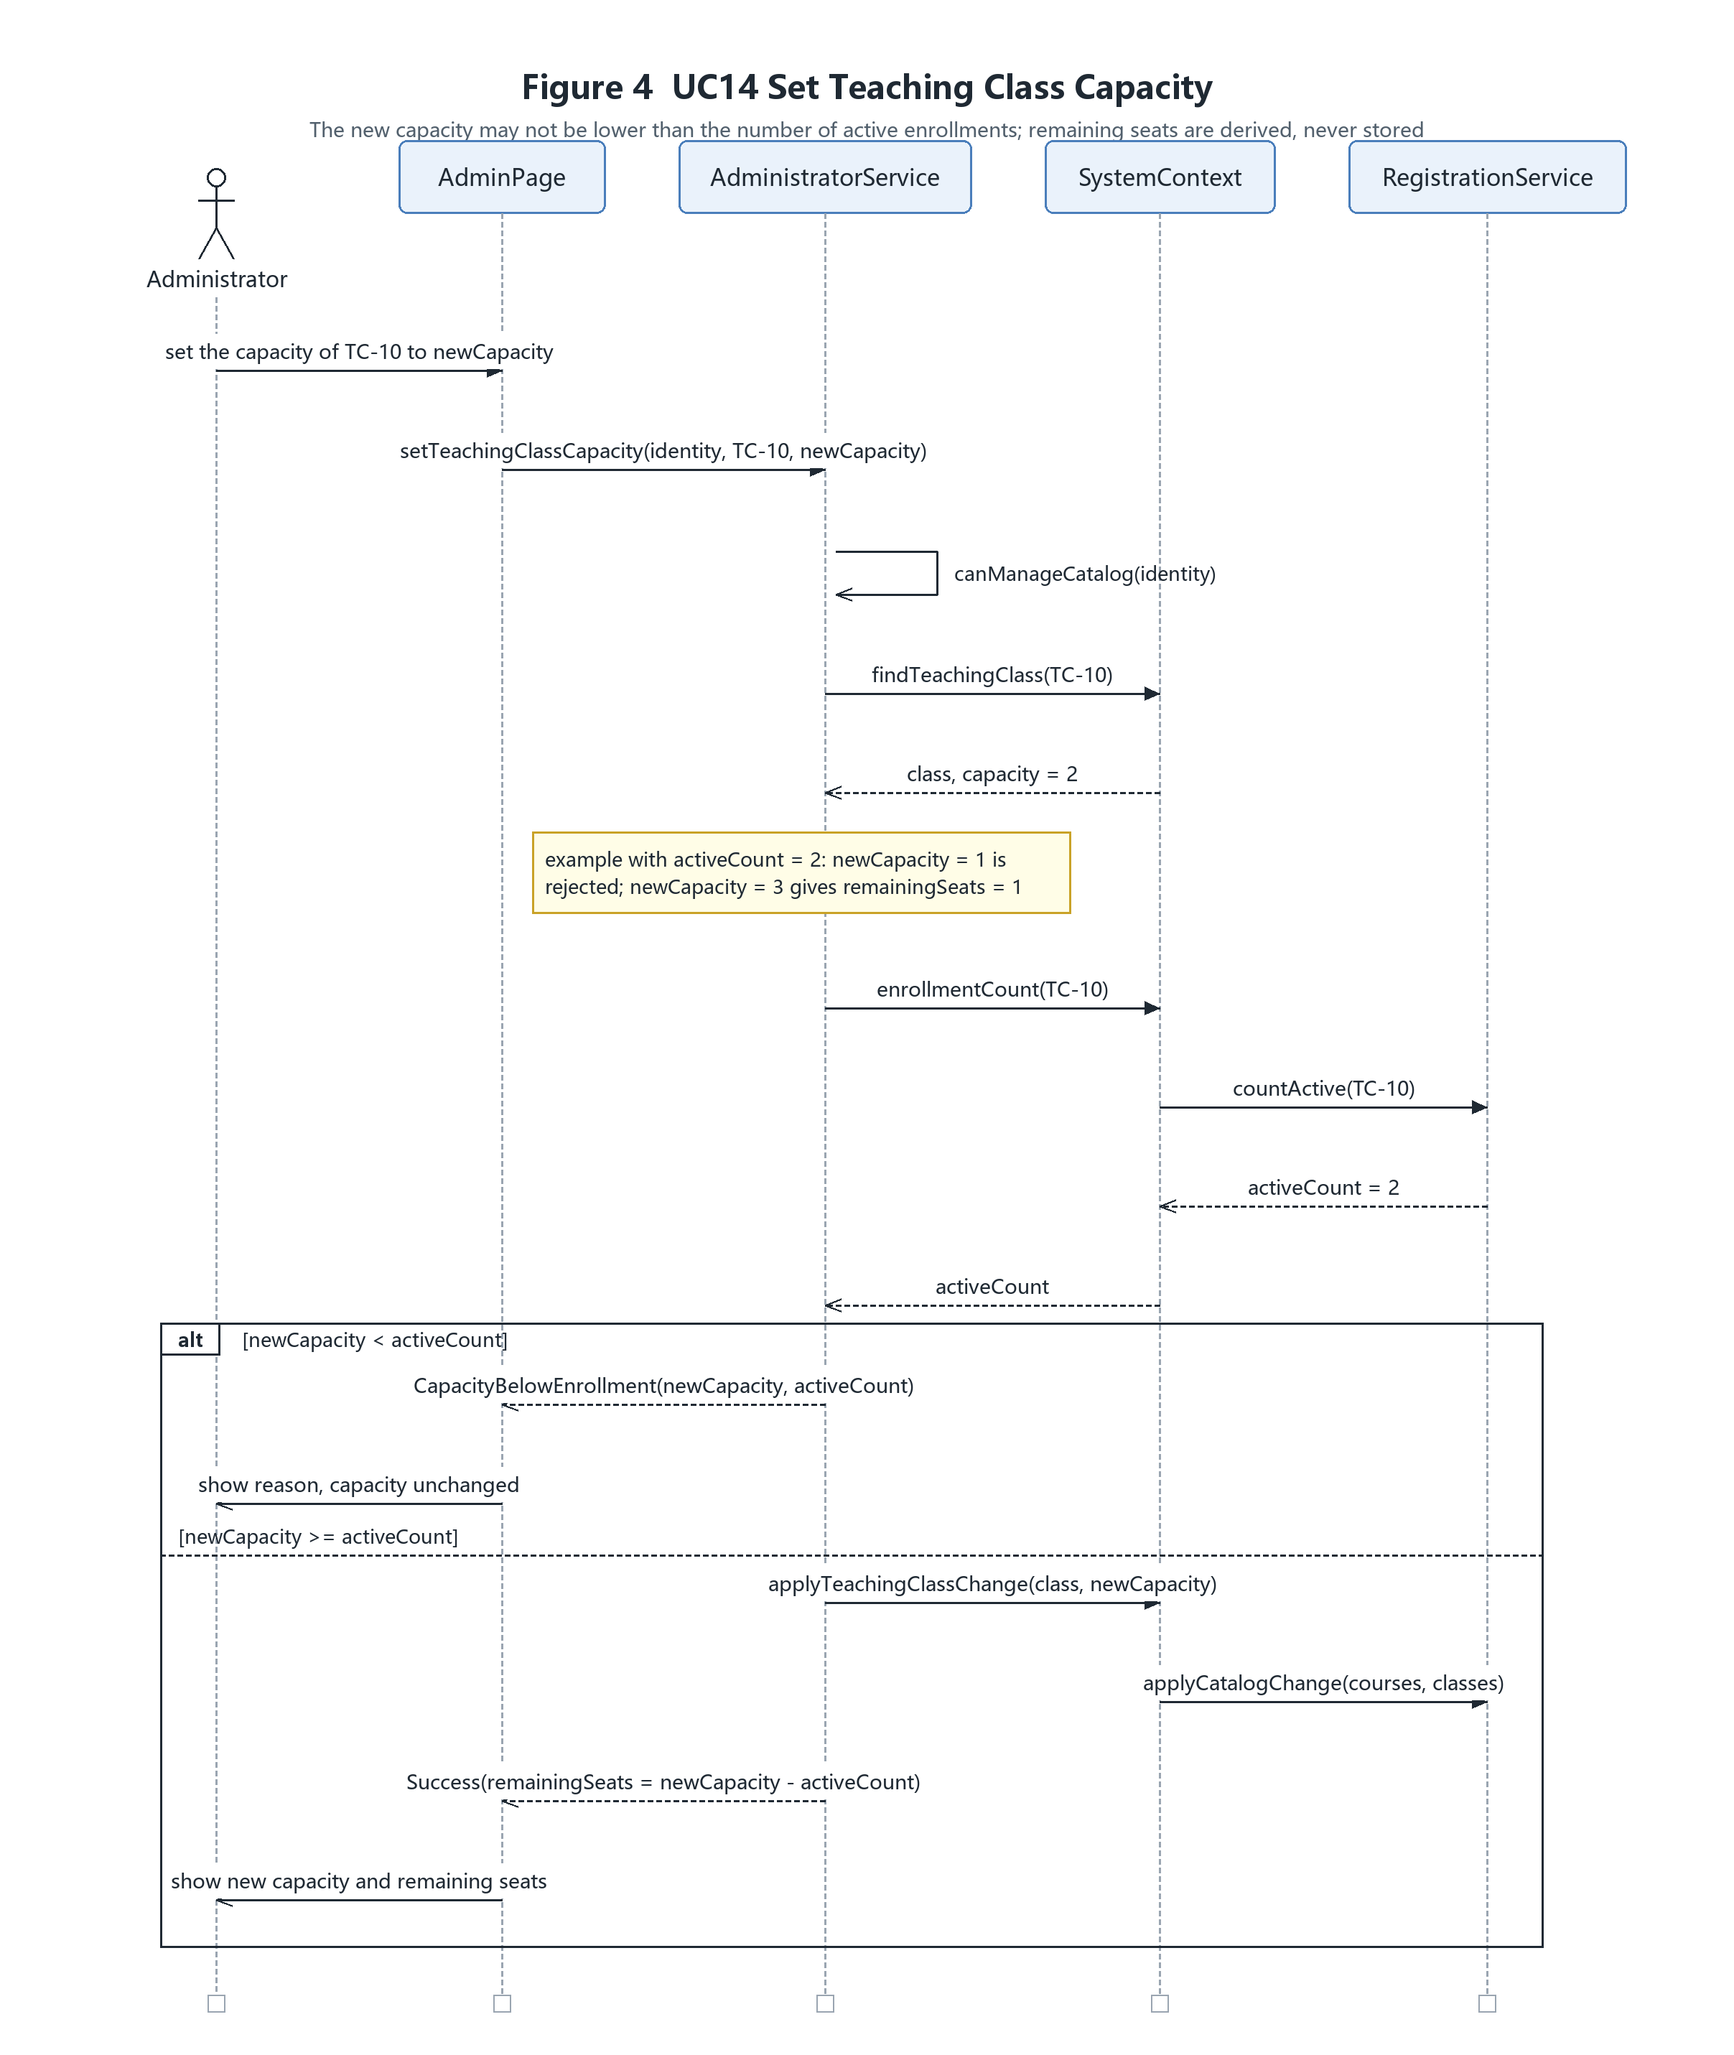
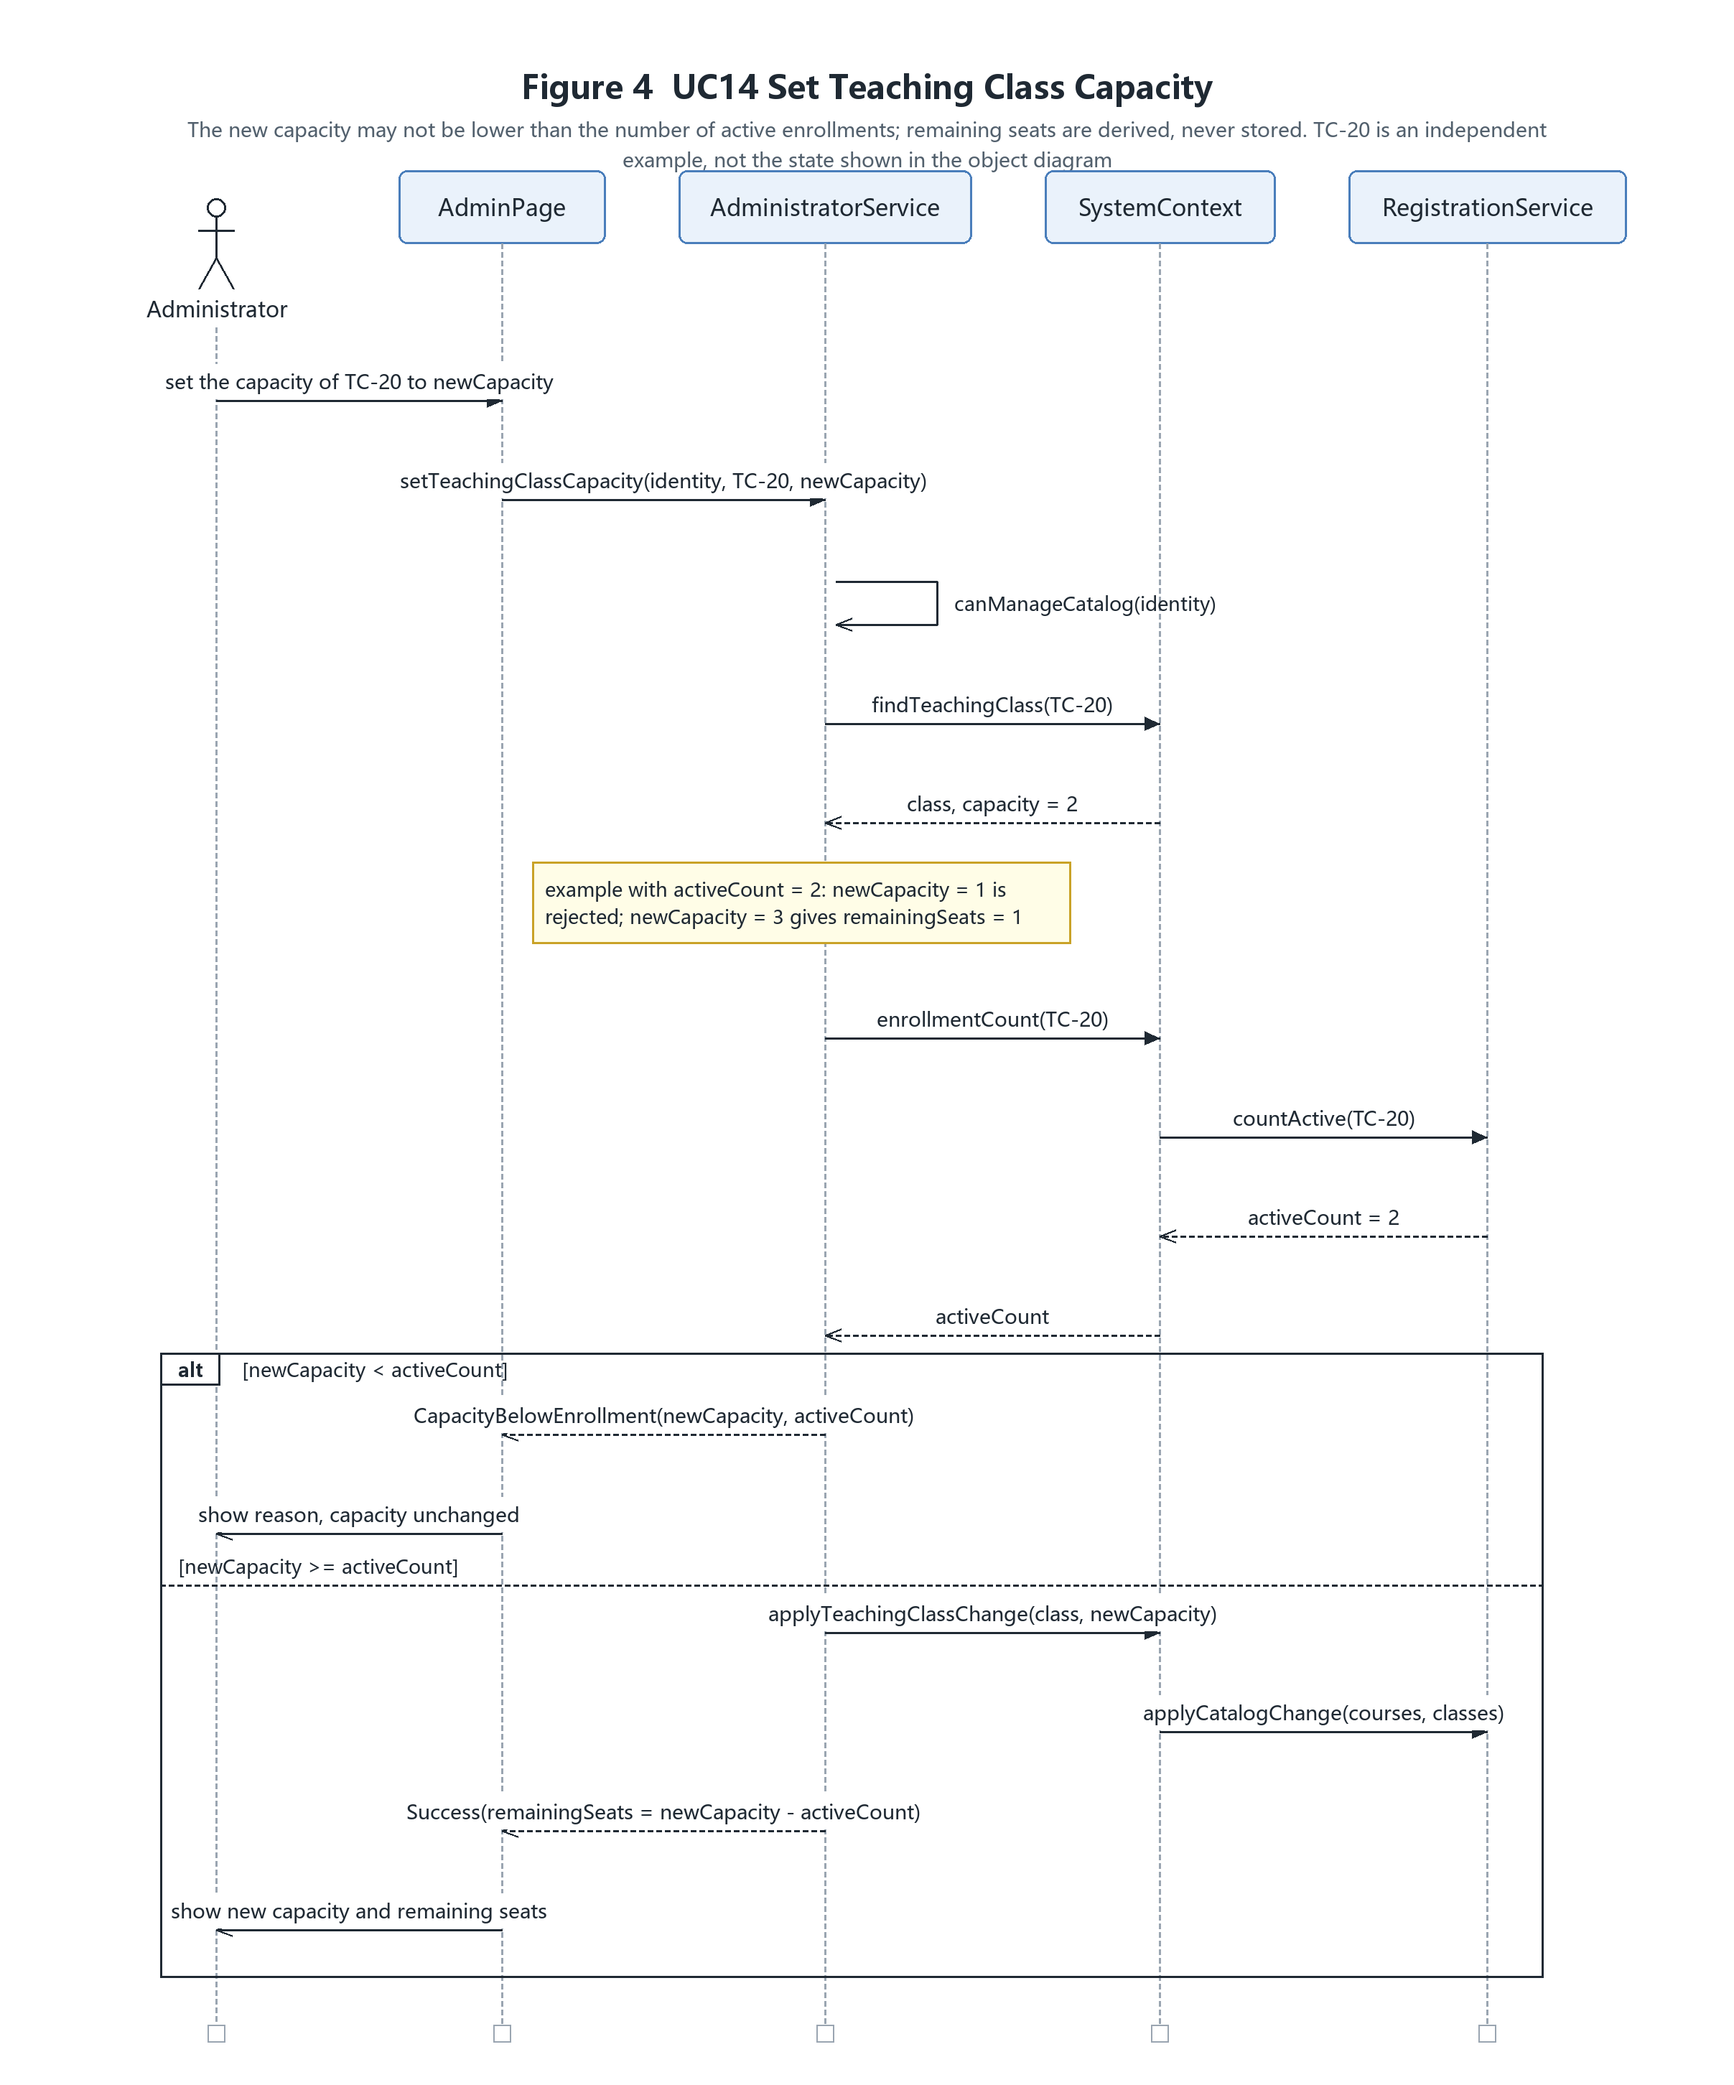
docs(task3): clarify the UC16 lookups and mark UC14 as an independent example
UC16: the two identifier lookups now return found or not found instead of a fixed not found, so the alt branch (duplicate identifier / valid record) is consistent with what the figure shows; the in-figure note and the explanation say that student creation is the example, teacher creation is similar, and updates/removals have their own checks. UC14: the teaching class is renamed to TC-20 and labelled an independent example, so it is no longer read as the same moment as the TC-10 object diagram. umlkit now wraps long subtitles so they cannot be clipped by the canvas. FIGURES.md records the terminology recommendation: keep active/dropped because it matches EnrollmentStatus.

diff --git a/docs/task3/make_diagrams.py b/docs/task3/make_diagrams.py
@@ -231,7 +231,8 @@ def figure4_uc14():
     diagram = SequenceDiagram(
         "Figure 4  UC14 Set Teaching Class Capacity",
         "The new capacity may not be lower than the number of active "
-        "enrollments; remaining seats are derived, never stored")
+        "enrollments; remaining seats are derived, never stored. "
+        "TC-20 is an independent example, not the state shown in the object diagram")
 
     admin = diagram.participant("Administrator", kind="actor")
     page = diagram.participant("AdminPage")
@@ -241,15 +242,15 @@ def figure4_uc14():
 
     m = []
     m.append(diagram.message(admin, page,
-                             "set the capacity of TC-10 to newCapacity"))
+                             "set the capacity of TC-20 to newCapacity"))
     m.append(diagram.message(page, service,
-                             "setTeachingClassCapacity(identity, TC-10, "
+                             "setTeachingClassCapacity(identity, TC-20, "
                              "newCapacity)"))
     m.append(diagram.self_message(service, "canManageCatalog(identity)"))
-    m.append(diagram.message(service, context, "findTeachingClass(TC-10)"))
+    m.append(diagram.message(service, context, "findTeachingClass(TC-20)"))
     m.append(diagram.ret(context, service, "class, capacity = 2"))
-    m.append(diagram.message(service, context, "enrollmentCount(TC-10)"))
-    m.append(diagram.message(context, registration, "countActive(TC-10)"))
+    m.append(diagram.message(service, context, "enrollmentCount(TC-20)"))
+    m.append(diagram.message(context, registration, "countActive(TC-20)"))
     m.append(diagram.ret(registration, context, "activeCount = 2"))
     m.append(diagram.ret(context, service, "activeCount"))
 
@@ -358,10 +359,10 @@ def figure6_uc16():
                              "createStudent(identity, record)"))
     m.append(diagram.self_message(service, "canManagePeople(identity)"))
     m.append(diagram.message(service, context, "findStudent(studentId)"))
-    m.append(diagram.ret(context, service, "not found"))
+    m.append(diagram.ret(context, service, "found or not found"))
     m.append(diagram.message(service, context,
                              "findStudentByNumber(studentNumber)"))
-    m.append(diagram.ret(context, service, "not found"))
+    m.append(diagram.ret(context, service, "found or not found"))
     m.append(diagram.self_message(
         service, "validate id > 0, number and name not blank"))
 
@@ -381,8 +382,9 @@ def figure6_uc16():
                      dividers=[(else_start, "[record is valid]")])
 
     diagram.note(service,
-                 "the same flow serves teachers: createTeacher / "
-                 "updateTeacher / removeTeacher", m[2], width=230)
+                 "student creation is the example; teacher creation is "
+                 "similar, updates and removals have their own checks",
+                 m[2], width=250)
 
     save(diagram, "fig6_uc16_manage_student_teacher_information",
          "Fig6 UC16 Manage Student / Teacher Information")

diff --git a/docs/task3/umlkit.py b/docs/task3/umlkit.py
@@ -571,6 +571,12 @@ class SequenceDiagram:
         width = cursor - 34 + self.PAD
         header_y = self.TOP
 
+        # 副标题过长时按画布宽度折行，并把参与者整体下移，避免压住标题。
+        subtitle_lines = []
+        if self.subtitle:
+            subtitle_lines = wrap_text(self.subtitle, 9.5, width - 60)
+            header_y = self.TOP + (len(subtitle_lines) - 1) * 14
+
         # 画布右侧要容纳自调用的标签与靠右的注释
         extra_right = 0
         for message in self.messages:
@@ -608,8 +614,9 @@ class SequenceDiagram:
 
         canvas = Canvas(width, height)
         canvas.text(width / 2, 16, self.title, size=15, bold=True)
-        if self.subtitle:
-            canvas.text(width / 2, 36, self.subtitle, size=9.5, color=MUTED)
+        for index, line in enumerate(subtitle_lines):
+            canvas.text(width / 2, 36 + index * 14, line, size=9.5,
+                        color=MUTED)
 
         # 参与者框 / 小人
         for index, part in enumerate(self.parts):

diff --git a/docs/task3/FIGURES.md b/docs/task3/FIGURES.md
@@ -79,7 +79,7 @@ involved here, so no enrollment record is created or changed.
 所以教师端人数、学生端余量与管理员看到的数字同步变化，不需要再存一份计数。
 图里不写死同一组数字：成功分支写 `remainingSeats = newCapacity - activeCount`，
 并在注释中给出示例（activeCount = 2 时，newCapacity = 1 被拒绝、newCapacity = 3 得余量 1），
-避免失败分支与成功分支互相矛盾。
+避免失败分支与成功分支互相矛盾。图中的教学班编号是 TC-20，与对象图里的 TC-10 不是同一时刻的数据，属于独立示例。
 
 **English**: Before changing a capacity, the service reads the current number of active
 enrollments. If the new capacity is smaller than that number it returns
@@ -89,7 +89,8 @@ registration service then recomputes the remaining seats as `capacity - active c
 teacher count, the student view and the administrator view change together without storing a
 second counter. The success branch states `remainingSeats = newCapacity - activeCount`
 instead of a hard-coded number, and a note gives one example: with activeCount = 2,
-newCapacity = 1 is rejected while newCapacity = 3 gives 1 remaining seat.
+newCapacity = 1 is rejected while newCapacity = 3 gives 1 remaining seat. The class in this
+figure is TC-20, an independent example and not the TC-10 snapshot of the object diagram.
 
 ### Figure 5　UC15 Set Registration Period
 
@@ -115,16 +116,17 @@ bypass any rule.
 **中文**：管理员新建学生账号时，服务先校验角色，再按编号和学号各查一次是否已存在，
 最后校验编号为正、学号与姓名非空；重复或空字段分别返回 `DuplicateIdentifier` / `InvalidInput`，
 不写入任何记录。通过校验后只写入账号资料，已选课记录保持不变。
-教师资料的增删改走同一流程（`createTeacher` / `updateTeacher` / `removeTeacher`），
-删除仍负责教学班或仍有有效选课的学生都会因 `CatalogInUse` 被拒绝。
+本图以“创建学生”为例；创建教师走类似流程（`createTeacher`），而修改（`updateStudent` / `updateTeacher`）与删除（`removeStudent` / `removeTeacher`）各有自己的检查：删除仍负责教学班的教师、或仍有有效选课的学生，都会因 `CatalogInUse` 被拒绝。
 
 **English**: When the administrator creates a student account, the service checks the role, looks
 the identifier up by `student_id` and by `student_number`, and then validates that the id is
 positive and that the number and name are not blank; duplicates and blank fields return
 `DuplicateIdentifier` / `InvalidInput` and nothing is written. Once the checks pass only the
-account record is stored and existing enrollments stay untouched. Teacher records follow the same
-flow through `createTeacher` / `updateTeacher` / `removeTeacher`, and deletion is refused with
-`CatalogInUse` while the teacher still teaches a class or the student still has active enrollments.
+account record is stored and existing enrollments stay untouched. The diagram uses student
+creation as an example; teacher creation follows a similar process, while updates
+(`updateStudent` / `updateTeacher`) and removals (`removeStudent` / `removeTeacher`) have their own
+checks. Removal is refused with `CatalogInUse` while the teacher still teaches a class or the
+student still has active enrollments.
 
 ## 三、自查（对应 Task 3 手册第四节）
 
@@ -144,3 +146,14 @@ flow through `createTeacher` / `updateTeacher` / `removeTeacher`, and deletion i
   以免与 Task 2 用例图不一致。
 - 报告编号：本组 6 张图按 Figure 1–6 排列；若与 Yikai/Yuhua 的图合并后需要重新编号，
   只改标题文字，不影响图源。
+
+
+## 五、术语统一：有效选课状态用 `active`
+
+- 代码里的枚举是 `EnrollmentStatus::Active` / `EnrollmentStatus::Dropped`，
+  见 `header_files/course_registration_business_rules.hpp`，对象图与测试都按这个取值绘制。
+- 因此建议全组统一写 **`active` / `dropped`**；若另一份图用的是 `enrolled`，
+  建议改那一份的图，而不是改代码枚举（改枚举会牵动头文件、测试、接口文档和四张图）。
+- 如果三人最终决定用 `enrolled`，需要同步修改的位置：
+  `EnrollmentStatus` 枚举、`check_data_integrity` 与测试断言里的词、对象图属性值、
+  `docs/interfaces.md` 的 `EnrollmentStatus` 一行、以及另一份图的 `active`。
